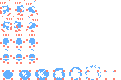
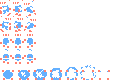
The Perfect Sprite!

diff --git a/learn_GameDev/Animation.h b/learn_GameDev/Animation.h
@@ -16,7 +16,7 @@ class Animation
 		void advance(); 
 
 		static constexpr int nFrames = 3; 
-		static constexpr float HOLDTIME = 0.5f; 
+		static constexpr float HOLDTIME = 0.1f; 
 		sf::Texture texture; 
 		sf::IntRect frames[nFrames];
 		int iFrame;

diff --git a/learn_GameDev/Player.cpp b/learn_GameDev/Player.cpp
@@ -2,7 +2,7 @@
 
 
 Player::Player(sf::Texture& t)
-	: rightWalk(t, 1, 16, 12, 16)
+	: rightWalk(t, 0, 0, 12, 16)
 {
 	// initialize variables
 	speed = 100.f; 
